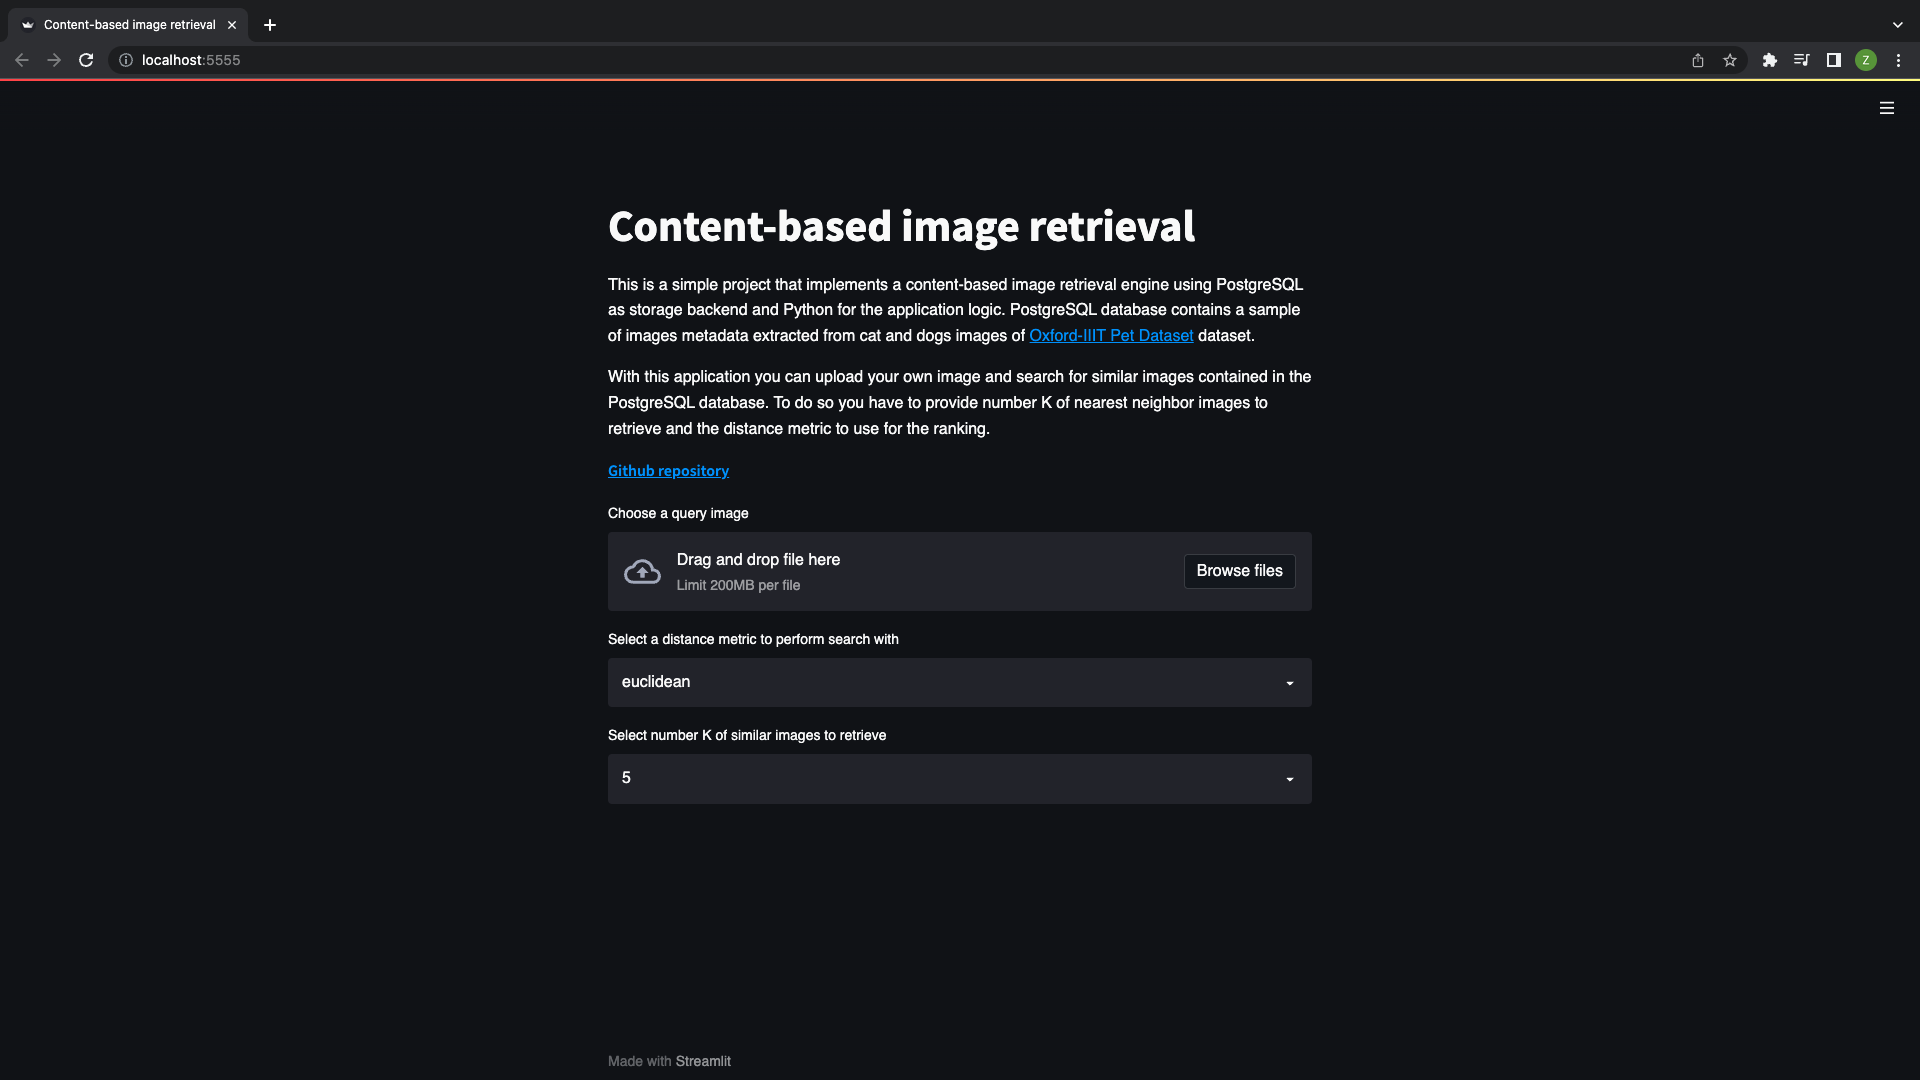
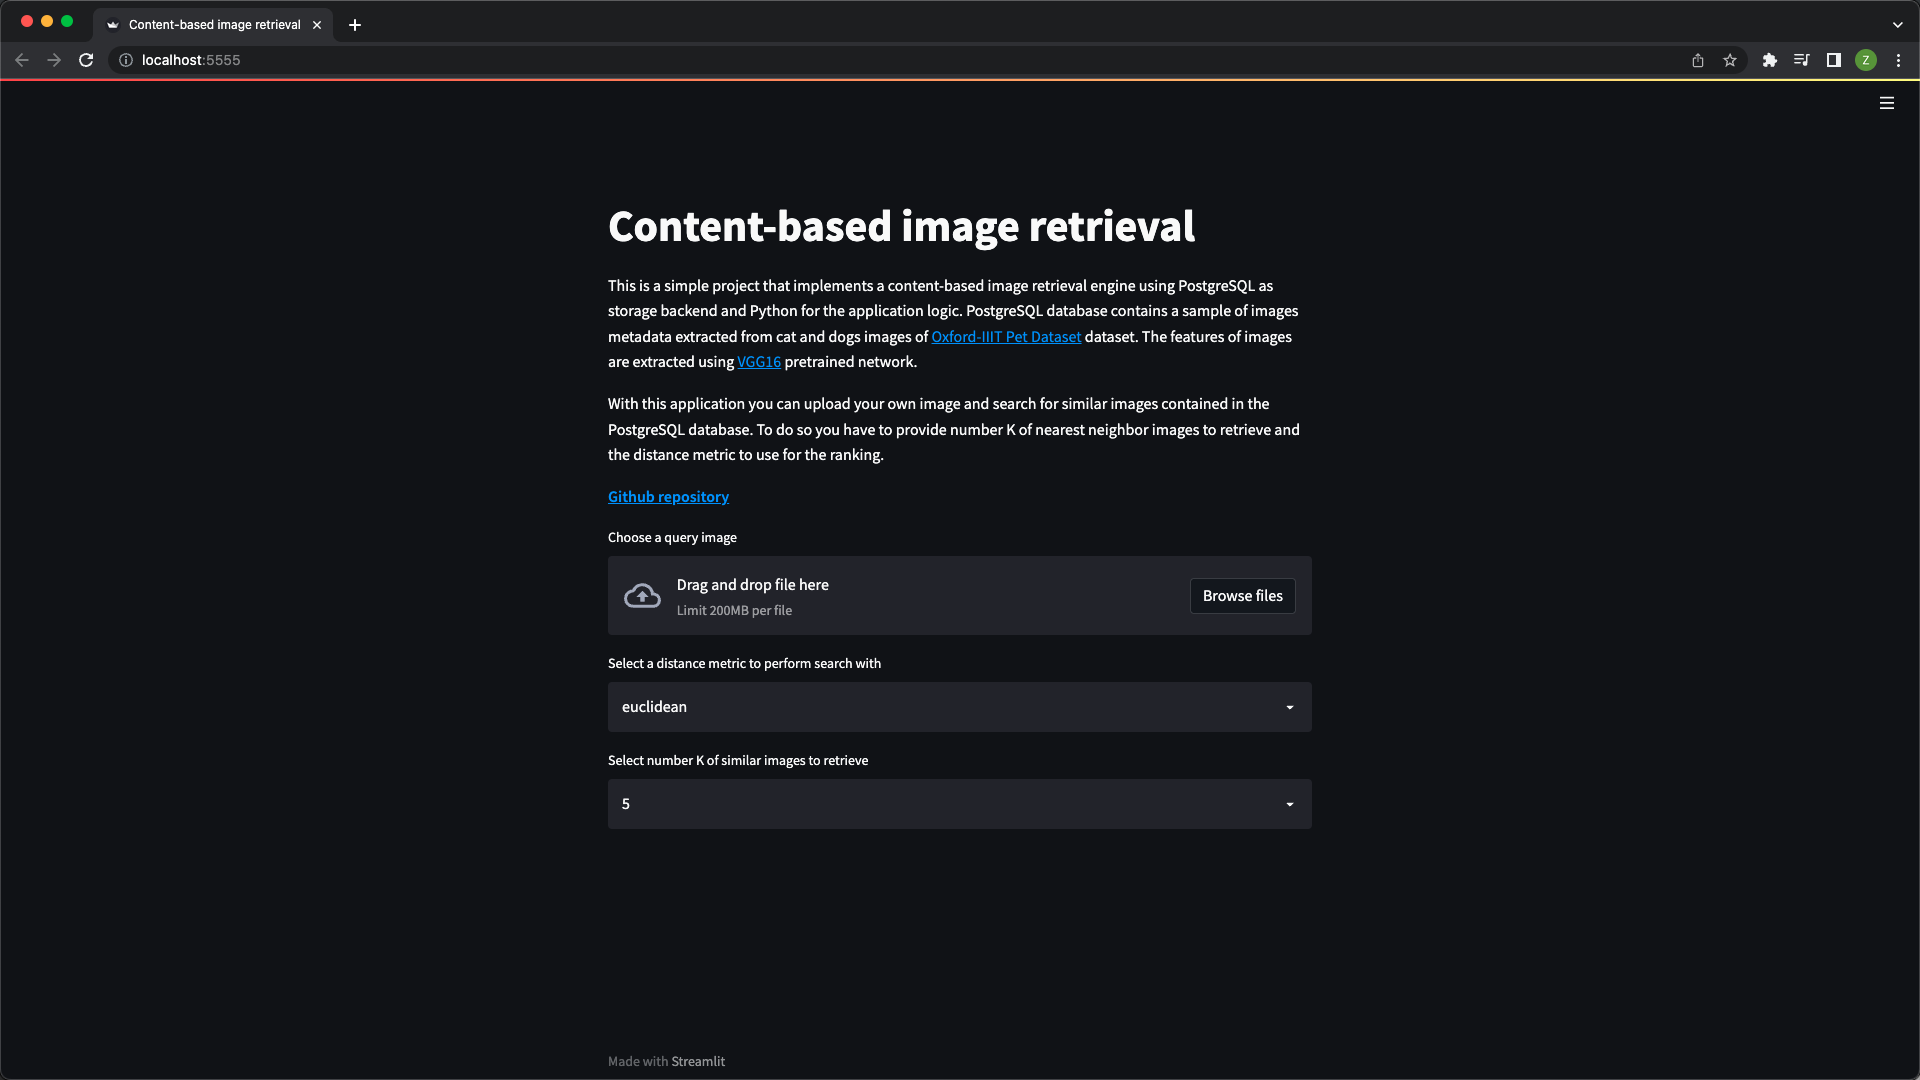
experiments module and experiment results added

diff --git a/experiments.py b/experiments.py
@@ -1,0 +1,126 @@
+import pandas as pd
+import PIL
+import numpy as np
+from os import path
+
+from image_retrieval import QueryImage, retrieve_k_most_similar_images, load_database_images
+
+def calculate_precision(query_pet_image_family, query_pet_image_breed, retrieved_results, verbose=False):
+    if query_pet_image_family not in ['cat', 'dog']:
+        raise ValueError('Pet family can be either cat or dog')
+
+    n_answer_set = len(retrieved_results.index)
+
+    pet_family_matches = (retrieved_results['family'].values == query_pet_image_family).sum()
+    pet_breed_matches = (retrieved_results['breed'].values == query_pet_image_breed).sum()
+
+    pet_family_precision = pet_family_matches / n_answer_set
+    pet_breed_precision = pet_breed_matches / n_answer_set
+
+    if verbose:
+        print(f'Pet family precision is: {pet_family_precision}')
+        print(f'Pet breed precision is: {pet_breed_precision}')
+
+    return pet_family_precision, pet_breed_precision
+
+
+def perform_content_based_retrieval(pet_images_df, image_filepath, k, distance_metric_option, query_pet_image_family, query_pet_image_breed, verbose=False):
+    query_image = QueryImage(PIL.Image.open(image_filepath), image_filepath)
+
+    k_most_similar_df = retrieve_k_most_similar_images(query_image, pet_images_df, k, distance_metric_option, verbose)
+
+    pet_family_precision, pet_breed_precision = calculate_precision(query_pet_image_family, query_pet_image_breed, k_most_similar_df, verbose)
+
+    # create list of image filenames after adding relative path to the images folder
+    image_filenames_list = k_most_similar_df['filename'].apply(lambda x: path.join('data', 'images', x)).tolist()
+
+    # store images collage
+    create_results_collage(image_filenames_list, f'''{query_image.filename.split('.')[0]}_{distance_metric_option}_k{k}''')
+
+    return k_most_similar_df, pet_family_precision, pet_breed_precision
+
+
+def compare_metrics(image_filepath, k, query_pet_image_family, query_pet_image_breed):
+    all_metrics_df = pd.DataFrame(None)
+
+    pet_images_df = load_database_images()
+
+    for distance_metric_to_use in ['euclidean', 'cityblock', 'minkowski', 'chebyshev', 'cosine', 'canberra', 'jaccard']:
+
+        k_most_similar_df, pet_family_precision, pet_breed_precision = perform_content_based_retrieval(pet_images_df, image_filepath, k, distance_metric_to_use, query_pet_image_family, query_pet_image_breed)
+
+        print(f'For metric {distance_metric_to_use} pet family precision is {pet_family_precision}')
+        print(f'For metric {distance_metric_to_use} pet breed precision is {pet_breed_precision}')
+
+        # concat all results in a single dataframe
+        all_metrics_df = pd.concat([all_metrics_df, k_most_similar_df])
+
+
+def create_results_collage(image_filenames_list, output_filename):
+    pil_images = []
+
+    # max size that the biggest dimension of an image can have
+    max_size = 300
+
+    # create list of PIL images
+    for image_file in image_filenames_list:
+        image = PIL.Image.open(image_file)
+        
+        size_of_biggest_image_dimension = max(image.size)
+
+        # if size_of_biggest_image_dimension is bigger than max size requested scale down image
+        if max_size < size_of_biggest_image_dimension:
+            # find required scale down factor
+            scale_down_factor = size_of_biggest_image_dimension/max_size
+
+            # scale down image
+            image = image.resize((int(image.size[0]/scale_down_factor), int(image.size[1]/scale_down_factor)))
+
+        pil_images.append(image)
+    
+    # create collage image
+    collage_image = pil_grid(pil_images, 3)
+
+    # store output collage image
+    collage_image.save(path.join('data', 'results', f'{output_filename}.jpg'))
+
+
+def pil_grid(images, max_horiz=np.iinfo(int).max):
+    ''' Given a list o PIL images and number of images to stach horizontally creates a PIL image collage
+    '''
+    n_images = len(images)
+    n_horiz = min(n_images, max_horiz)
+    h_sizes, v_sizes = [0] * n_horiz, [0] * ((n_images // n_horiz) + (1 if n_images % n_horiz > 0 else 0))
+    for i, im in enumerate(images):
+        h, v = i % n_horiz, i // n_horiz
+        h_sizes[h] = max(h_sizes[h], im.size[0])
+        v_sizes[v] = max(v_sizes[v], im.size[1])
+    h_sizes, v_sizes = np.cumsum([0] + h_sizes), np.cumsum([0] + v_sizes)
+    im_grid = PIL.Image.new('RGB', (h_sizes[-1], v_sizes[-1]), color='white')
+    for i, im in enumerate(images):
+        im_grid.paste(im, (h_sizes[i % n_horiz], v_sizes[i // n_horiz]))
+    return im_grid
+
+
+def run_experiments():
+    for k in [5,10,20]:
+        print(f'With k={k}:')
+
+        image_file = 'basset_hound_113.jpg'
+        print(f'For image {image_file}')
+        compare_metrics(path.join('data', 'sample_query_images', image_file), k, 'dog', 'basset_hound')
+        print('\n')
+
+        image_file = 'Bengal_29.jpg'
+        print(f'For image {image_file}')
+        compare_metrics(path.join('data', 'sample_query_images', image_file), k, 'cat', 'bengal')
+        print('\n')
+
+        image_file = 'out_of_dataset_dog.jpeg'
+        print(f'For image {image_file}')
+        compare_metrics(path.join('data', 'sample_query_images', image_file), k, 'dog', 'pug')
+        print('\n')
+
+
+if __name__=='__main__':
+    run_experiments()

diff --git a/image_retrieval.py b/image_retrieval.py
@@ -1,7 +1,3 @@
-import pandas as pd
-import PIL
-import argparse
-import numpy as np
 from os import path
 from scipy.spatial.distance import euclidean, cityblock, minkowski, chebyshev, cosine, canberra, jaccard
 
@@ -13,7 +9,7 @@ class QueryImage:
     def __init__(self, pil_image, filename) -> None:
         self.image_in_pil_format = pil_image
         self.feature_vector = PetImage.extract_feature_vector(self, self.image_in_pil_format)
-        self.filename = filename
+        self.filename = path.split(filename)[1]
 
     
     def to_dict(self):
@@ -53,112 +49,9 @@ def retrieve_k_most_similar_images(query_image, pet_images_df, k, distance_metri
     return k_most_similar_df
 
 
-def calculate_precision(query_pet_image_family, retrieved_results, verbose=False):
-    if query_pet_image_family not in ['cat', 'dog']:
-        raise ValueError('Pet family can be either cat or dog')
-
-    n_answer_set = len(retrieved_results.index)
-
-    pet_family_matches = (retrieved_results['family'].values == query_pet_image_family).sum()
-
-    pet_family_precision = pet_family_matches / n_answer_set
-
-    if verbose:
-        print(f'Pet family precision is: {pet_family_precision}')
-
-    return pet_family_precision
-
-
 def load_database_images():
     """ Returns as a dataframe the table of pet images
     """
     postgres_db_handler = PostgresHandler()
 
     return postgres_db_handler.retrieve_images()
-
-
-def perform_content_based_retrieval(pet_images_df, image_filepath, k, distance_metric_option, query_pet_image_family, verbose=False):
-    query_image = QueryImage(PIL.Image.open(image_filepath), image_filepath)
-
-    k_most_similar_df = retrieve_k_most_similar_images(query_image, pet_images_df, k, distance_metric_option, verbose)
-
-    pet_family_precision = calculate_precision(query_pet_image_family, k_most_similar_df, verbose)
-
-    # create list of image filenames after adding relative path to the images folder
-    image_filenames_list = k_most_similar_df['filename'].apply(lambda x: path.join('data', 'images', x)).tolist()
-
-    # store images collage
-    create_results_collage(image_filenames_list, f'{distance_metric_option}_k{k}')
-
-    return k_most_similar_df, pet_family_precision
-
-
-def compare_metrics(image_filepath, k, query_pet_image_family):
-    all_metrics_df = pd.DataFrame(None)
-
-    pet_images_df = load_database_images()
-
-    for distance_metric_to_use in ['euclidean', 'cityblock', 'minkowski', 'chebyshev', 'cosine', 'canberra', 'jaccard']:
-
-        k_most_similar_df, pet_family_precision = perform_content_based_retrieval(pet_images_df, image_filepath, k, distance_metric_to_use, query_pet_image_family)
-
-        print(f'For metric {distance_metric_to_use} precision is {pet_family_precision}')
-
-        all_metrics_df = all_metrics_df.append(k_most_similar_df)
-
-
-def create_results_collage(image_filenames_list, output_filename):
-    pil_images = []
-
-    # create list of PIL images
-    for image in image_filenames_list:
-        pil_images.append(PIL.Image.open(image))
-    
-    # create collage image
-    collage_image = pil_grid(pil_images, 3)
-
-    # scale down overall image size
-    collage_image.resize((int(collage_image.size[0]/4), int(collage_image.size[1]/4)))
-
-    # store output collage image
-    collage_image.save(path.join('data', 'results', f'{output_filename}.jpg'))
-
-
-def pil_grid(images, max_horiz=np.iinfo(int).max):
-    ''' Given a list o PIL images and number of images to stach horizontally creates a PIL image collage
-    '''
-    n_images = len(images)
-    n_horiz = min(n_images, max_horiz)
-    h_sizes, v_sizes = [0] * n_horiz, [0] * ((n_images // n_horiz) + (1 if n_images % n_horiz > 0 else 0))
-    for i, im in enumerate(images):
-        h, v = i % n_horiz, i // n_horiz
-        h_sizes[h] = max(h_sizes[h], im.size[0])
-        v_sizes[v] = max(v_sizes[v], im.size[1])
-    h_sizes, v_sizes = np.cumsum([0] + h_sizes), np.cumsum([0] + v_sizes)
-    im_grid = PIL.Image.new('RGB', (h_sizes[-1], v_sizes[-1]), color='white')
-    for i, im in enumerate(images):
-        im_grid.paste(im, (h_sizes[i % n_horiz], v_sizes[i // n_horiz]))
-    return im_grid
-
-
-def parse_command_line_arguments():
-    parser = argparse.ArgumentParser(
-        description='Image retrieval experiments',
-        add_help=True)
-
-    parser.add_argument(
-        '--action', 
-        help='''Create, ingest records in or delete records from pet_images table in PostgreSQL database''', 
-        type=str, 
-        choices=['create', 'ingest', 'delete'], 
-        required=True)
-
-    return parser.parse_args()
-
-
-if __name__=='__main__':
-    #main()
-    compare_metrics('data/images/basset_hound_113.jpg', 10, 'dog')
-    #images = ['data/images/basset_hound_113.jpg', 'data/images/basset_hound_112.jpg']
-
-    #create_results_collage(images, 'experiment1')

diff --git a/assets/app_desc.md b/assets/app_desc.md
@@ -1,4 +1,4 @@
-This is a simple project that implements a content-based image retrieval engine using PostgreSQL as storage backend and Python for the application logic. PostgreSQL database contains a sample of images metadata extracted from cat and dogs images of [Oxford-IIIT Pet Dataset](https://www.robots.ox.ac.uk/~vgg/data/pets/) dataset. 
+This is a simple project that implements a content-based image retrieval engine using PostgreSQL as storage backend and Python for the application logic. PostgreSQL database contains a sample of images metadata extracted from cat and dogs images of [Oxford-IIIT Pet Dataset](https://www.robots.ox.ac.uk/~vgg/data/pets/) dataset. The features of images are extracted using [VGG16](https://www.tensorflow.org/api_docs/python/tf/keras/applications/vgg16/VGG16) pretrained network.
 
 With this application you can upload your own image and search for similar images contained in the PostgreSQL database. To do so you have to provide number K of nearest neighbor images to retrieve and the distance metric to use for the ranking.
 
